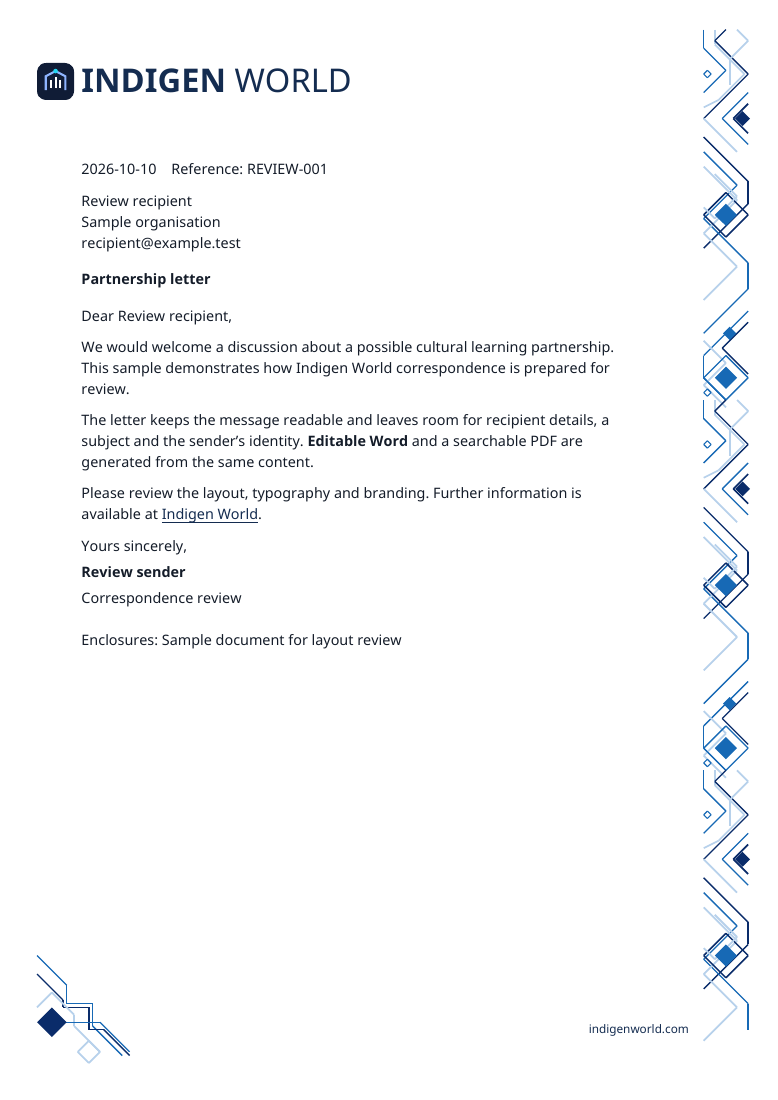
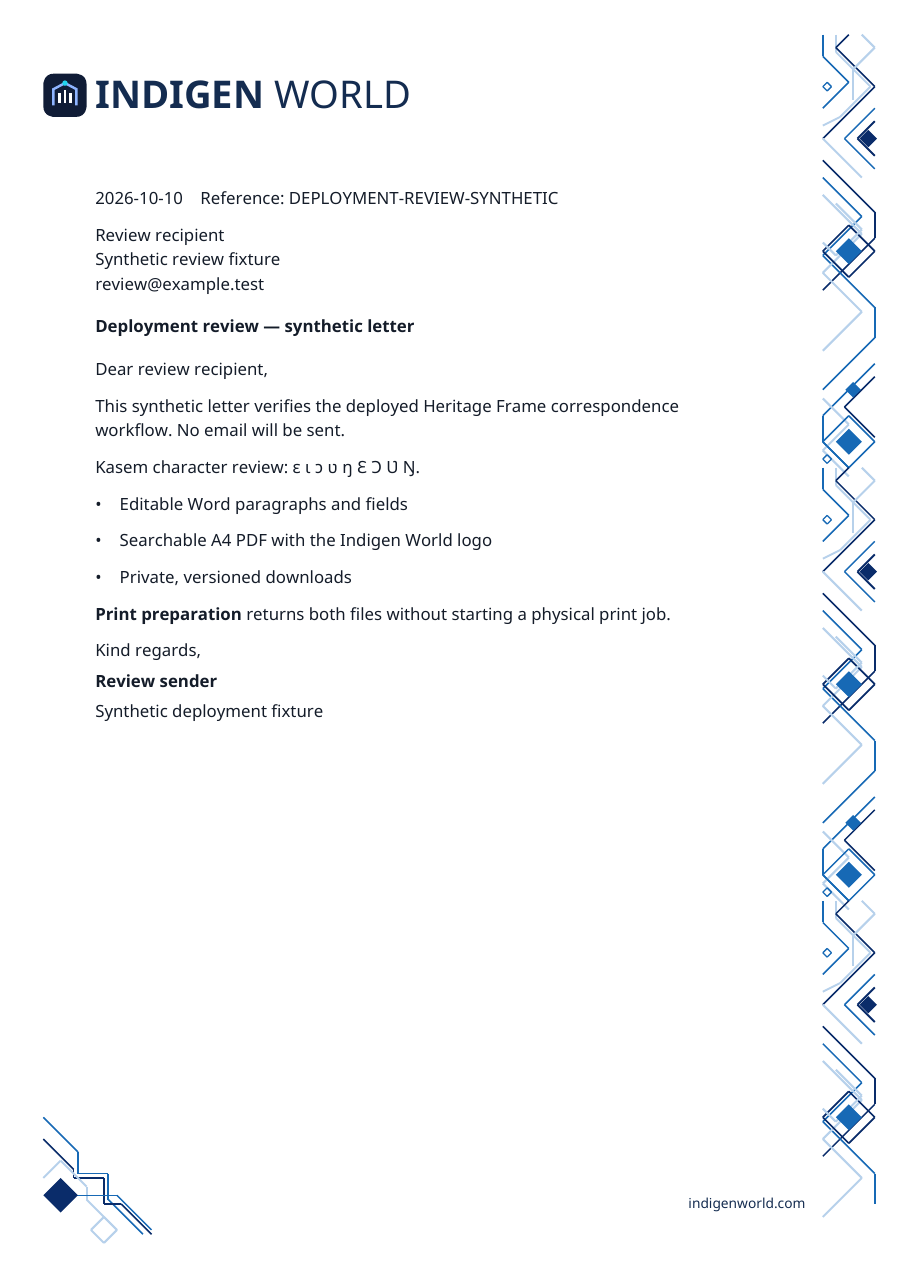
Record verified Heritage Frame production release

diff --git a/apps/updates-blog/posts/2026-10-10-heritage-frame-correspondence/post.html b/apps/updates-blog/posts/2026-10-10-heritage-frame-correspondence/post.html
@@ -1,18 +1,18 @@
 <article>
-  <p>Indigen World correspondence now has a reusable Heritage Frame design prepared in the repository. It brings the familiar Indigen World logo and wordmark to a clean white A4 page, with navy, cobalt and pale blue geometric artwork.</p>
-  <p><strong>Availability:</strong> this implementation is prepared for deployment and local review. A live release has not been confirmed.</p>
+  <p>Indigen World correspondence now uses the reusable Heritage Frame design. It brings the familiar Indigen World logo and wordmark to a clean white A4 page, with navy, cobalt and pale blue geometric artwork.</p>
+  <p><strong>Availability:</strong> deployed October 10, 2026 in Admin for authorised administrators. The private draft and cloud Word/PDF generation workflow has been verified with synthetic review data.</p>
   <figure><img src="images/heritage-frame-letter.png" alt="A sample Indigen World letter on white A4 paper with its logo, typographic wordmark, blue geometric right border and website footer"/><figcaption>Actual generated review sample with synthetic recipient and sender details. The letter text stays editable and searchable; the frame is vector artwork.</figcaption></figure>
   <h2>One letter, two useful files</h2>
   <p>Staff can prepare a letter once and download an editable Word document and a print-ready PDF. The same date, recipient details, subject, message and supplied sender identity are used in both. Longer letters can continue across pages, with the branding repeated and room kept clear for the text.</p>
   <p>The workflow supports paragraphs, lists, emphasis and links. Its bundled font preserves Kasem characters, including ɛ, ɩ, ɔ, ʋ and ŋ. Unsupported characters produce a clear generation error instead of silently disappearing.</p>
   <h2>A correspondence desk in Admin</h2>
-  <p>After deployment, administrators can open <strong>Messaging → Correspondence</strong>, enter their letter details and save a private draft. They can preview the letterhead, choose <strong>Download Word</strong> or <strong>Download PDF</strong>, and use <strong>Print PDF</strong> to prepare both files and open the PDF viewer. Preparing print files does not send email or start a physical print job.</p>
-  <figure><img src="images/correspondence-composer.png" alt="The Admin correspondence composer showing saved draft fields, a Heritage Frame preview and Word, PDF, print and email review controls"/><figcaption>Actual composer rendered with a clearly labelled local review fixture. These details are test data, and no message is delivered by this preview.</figcaption></figure>
+  <p>Administrators can open <strong>Messaging → Correspondence</strong>, enter their letter details and save a private draft. They can preview the letterhead, choose <strong>Download Word</strong> or <strong>Download PDF</strong>, and use <strong>Print PDF</strong> to prepare both files and open the PDF viewer. Preparing print files does not send email or start a physical print job.</p>
+  <figure><img src="images/correspondence-composer.png" alt="The deployed Admin correspondence composer with a saved synthetic draft and Heritage Frame preview showing the Indigen World logo"/><figcaption>Actual deployed composer with a clearly labelled synthetic review draft. No email was sent during this verification.</figcaption></figure>
   <h2>Readable email with the reviewed letter attached</h2>
   <p>Application email routes now prepare the corresponding Heritage Frame PDF before using the existing email provider. The email remains readable in its body. When staff supply a separate complete formal letter, they can write a concise email introduction and attach the full letter.</p>
   <p>The correspondence desk asks staff to review the recipient, email body and generated PDF before sending. Every generated document has a version and hash, so an attachment already sent is not silently replaced by later edits. Recipient-specific messages receive their own letters.</p>
   <h2>Private drafts and clear failures</h2>
   <p>Drafts and files stay private. Only the authorised owner receives temporary download links. If document or attachment preparation fails, the email stops before sending and the draft remains available to retry. If the provider’s acceptance is uncertain, the system stops an automatic resend so the team can check the recorded message identifier.</p>
   <p>No handwritten signature is added without an approved asset. Provider-managed Firebase authentication emails need a separate sender integration to support attachments. A separate staff correspondence assistant is not connected yet; an integration contract is prepared for the same authorised tools.</p>
-  <p>The local review includes one-page, multi-page and Kasem examples, offline attachment checks, retry checks and role/privacy tests. Deployment and Blogger publication remain separate release steps.</p>
+  <p>Verification includes one-page, multi-page and Kasem examples, offline attachment and retry checks, role/privacy tests, and live private draft and cloud document generation. No real-recipient test email or physical print job was performed. Blogger publication remains a separate step.</p>
 </article>

diff --git a/docs/operations/correspondence-deployment-2026-10-10.md b/docs/operations/correspondence-deployment-2026-10-10.md
@@ -1,0 +1,87 @@
+# Heritage Frame production release — October 10, 2026
+
+Deployed to `project-kassena-7e026`. Admin is available at
+[Messaging → Correspondence](https://admin.indigenworld.com/messaging/correspondence)
+and the Firebase Hosting domain `https://indigen-admin.web.app`.
+
+## Scope and source
+
+- Admin Hosting and Firestore/Storage rules: release commit
+  `4b0f8ed3ab7611f075cfbfd46fce13eb60a0a7eb`.
+- Final backend, including the cloud Word font correction: commit
+  `985d31258870eb67d96e66a67663349323d8a29a`.
+- An isolated clean checkout preserved unrelated Kasem audio release work.
+  Both code commits were pushed to `origin/main` before deployment. The frontend
+  code is unchanged by the backend correction; documentation commits do not
+  require another runtime release.
+- Firebase CLI 15.33.0 deployed only four Functions, private-data rules and
+  `hosting:indigen-admin`. Hosting's existing predeploy checks also ran the
+  website, dictionary and TribeStudio checks; those sites were not deployed.
+- A transient connection failure stopped correction attempts before source
+  upload. After connectivity recovered, the correction deploy completed.
+
+## Verified live backend
+
+All four Functions are ACTIVE, Node 22, 512 MiB, timeout 120 seconds,
+concurrency 1, in `us-central1`. Final Cloud Build:
+`7dedb75c-c2da-4297-b602-7c65d1a27879`.
+
+| Function | Final revision | Updated UTC |
+|---|---|---|
+| correspondence | correspondence-00002-peg | 19:01:23 |
+| publicForms | publicforms-00026-mup | 19:01:47 |
+| onNotificationCreated | onnotificationcreated-00027-tas | 19:01:51 |
+| onSupportEmailCreated | onsupportemailcreated-00004-hex | 19:01:50 |
+
+The existing seven SMTP/provider settings and secret bindings were retained.
+The existing runtime service account already had self-signing permission;
+Runtime service-account IAM roles and existing authentication/review permissions
+were preserved.
+Private cloud storage writes and download-link preparation passed through the
+admin-only callable. Raw draft and delivery collections remain denied to clients.
+
+## Validation
+
+- Correspondence build and 13 generator/delivery tests passed, including the
+  cloud filename regression, exact MIME attachment bytes and safe retries.
+- Existing six correspondence emulator tests, nine Admin route tests,
+  Admin build/typecheck, 22 contract fixtures and fixture browser verification
+  passed before release. The frontend remains byte-identical to that build.
+- Both Admin domains returned HTTP 200 and exactly matched the built HTML,
+  entry JavaScript and composer chunk. Existing nosniff, frame-denial and
+  noindex headers were present. Unauthenticated callable list returns
+  HTTP 401 / UNAUTHENTICATED.
+- A signed-in administrator saved `Deployment review — synthetic letter` and
+  prepared print files. Its generated versions remained separate and unsent.
+  The corrected Word and PDF were retrieved from private cloud storage.
+- Corrected cloud Word: 16 editable paragraphs, four embedded fonts, every
+  font relationship resolved, header/footer present and Kasem text retained.
+  Corrected PDF: one searchable A4 page, Kasem preserved, rendered and visually
+  inspected. Its hash matches the portal's saved version.
+
+Corrected synthetic document version:
[1 lines of base64/hex data omitted]
+
+PDF SHA-256:
[1 lines of base64/hex data omitted]
+
+Word SHA-256:
[1 lines of base64/hex data omitted]
+
+No real-recipient test email, physical print job or external Blogger publication
+was performed. SMTP acceptance/inbox delivery is not claimed. Native Word
+render-refresh and external assistant/authentication-email integration limits are
+recorded in [the verification record](../architecture/correspondence-verification.md).
+
+## Use and remaining connections
+
+Administrators can save a private draft, download Word/PDF, prepare a PDF for
+printing, or review and send an email with its immutable PDF attached. Existing
+application email routes enforce preparation through the shared SMTP boundary.
+The CLI also returns both formats without a printer or email operation.
+
+Firebase-managed security emails need an authorised custom sender integration
+for attachment coverage. A separate staff correspondence assistant is not
+connected; its tool contract is prepared. The support assistant's existing email
+outbox uses the updated worker. Chinedum's release article and images are ready
+in the repository; publishing and sharing remain separate actions.

diff --git a/docs/architecture/correspondence-verification.md b/docs/architecture/correspondence-verification.md
@@ -1,14 +1,16 @@
 # Correspondence verification — October 10, 2026
 
-Repository implementation only. No deployment, external publication, real
-recipient email or physical print job was performed.
+Functions, private-data rules and Admin Hosting were deployed October 10, 2026.
+No external publication, real-recipient test email or physical print job was
+performed. See [the deployment record](../operations/correspondence-deployment-2026-10-10.md).
 
 - Functions build and Admin build/typecheck passed.
-- `test:correspondence`: 12 passing tests. Covers editable DOCX packages,
+- `test:correspondence`: 13 passing tests. Covers editable DOCX packages,
   searchable A4 PDF, four embedded font faces, Kasem, lists, page breaks,
   approved-signature/glyph validation, exact offline MIME attachment bytes,
   recipient-specific bulk letters, preparation failure/retry, concurrent claims,
-  integrity failures and uncertain-delivery duplicate prevention.
+  integrity failures, uncertain-delivery duplicate prevention and retention of
+  already-valid cloud font part names with complete relationship validation.
 - `test:correspondence:integration`: 6 passing Firestore-emulator tests covering
   admin permissions, private draft persistence, optimistic revisions, owner
   isolation, direct-access denial, incomplete drafts and failed send preservation.
@@ -31,11 +33,37 @@ recipient email or physical print job was performed.
   content, four embedded font parts, headers, footers, SVG artwork and no editing
   protection. PDFs preserve the tested Kasem characters in extracted text.
 
-Synthetic samples are in `output/correspondence/` (ignored by Git). Regenerate
-with the documented CLI. Release-post assets are actual local sample/composer
-screenshots, not evidence of a live release.
+Synthetic samples are in `output/correspondence/` (ignored by Git), refreshed
+with generator v2. All three DOCX samples open with an independent document
+parser and contain editable paragraphs and four embedded fonts.
 
-Deployment checks still needed: production service-account signing/bucket
-permissions, SMTP configuration and deployment of Functions, rules and Admin.
+Production verification:
+- All four Functions are ACTIVE on Node 22, with 512 MiB, timeout 120 seconds
+  and concurrency 1. Original provider values and secret bindings were retained;
+  the service account already had signing permission. No runtime service-account
+  IAM change was needed.
+- Both Admin domains serve the exact built HTML, entry JavaScript and composer
+  chunk, with the existing security headers. Unauthenticated callable access
+  returns HTTP 401 / UNAUTHENTICATED.
+- A signed-in administrator saved a clearly labelled synthetic draft and used
+  Print PDF to generate both cloud files. The UI returned its ready notice and
+  recorded separate immutable versions marked Generated, not sent.
+- The initial live Word inspection exposed a cloud-library font packaging
+  defect. `docx` is now pinned to the tested release and generator v2 preserves
+  valid filenames, validates every font relationship and leaves history intact.
+  The corrected cloud DOCX opens with an independent parser: 16 editable
+  paragraphs, four embedded fonts, resolved references, header/footer and Kasem.
+- The corrected cloud PDF is one searchable A4 page, preserves the supplied
+  Kasem characters and matches the SHA-256 shown in the portal. It was downloaded
+  from private storage, rendered and visually inspected. Browser automation
+  cannot reliably capture the native PDF viewer; the standalone render is used
+  for visual evidence. Final native Microsoft Word layout refresh remains the
+  limitation described above.
+
+Release-post images are an actual deployed composer screenshot and a rendered
+cloud-generated PDF, both using synthetic identities. Blogger remains unpublished.
+
 Provider-managed Firebase security emails require a custom sender connection;
 the staff assistant descriptor still needs an authorised assistant integration.
+SMTP acceptance and inbox delivery were intentionally not tested against real
+recipients; the existing provider configuration and offline MIME tests were used.

diff --git a/apps/updates-blog/posts/2026-10-10-heritage-frame-correspondence/README.md b/apps/updates-blog/posts/2026-10-10-heritage-frame-correspondence/README.md
@@ -1,6 +1,6 @@
 # Heritage Frame letters and correspondence
 
-Status: **Implemented in the repository; deployment not confirmed. Blogger draft, not published. No real recipient emails sent.**
+Status: **Deployed October 10, 2026: Admin, four Functions and private-data rules. Live draft and Word/PDF print generation verified. Blogger draft, not published. No test emails sent.**
 
 | Field | Value |
 |---|---|
@@ -20,18 +20,18 @@ Status: **Implemented in the repository; deployment not confirmed. Blogger draft
 - Immutable private files, owner-checked temporary links, exact attached PDF hashes and durable delivery states. Preparation failures are retryable; uncertain SMTP outcomes are not automatically resent.
 - No approved handwritten signature exists; none is invented. A separate staff assistant is not connected. Firebase-managed security emails require a custom sender integration for attachments.
 - Functions/Admin builds, generator and delivery tests, role/private-draft emulator tests and desktop/mobile fixture browser checks are verified locally. See `docs/architecture/correspondence.md` and [the verification record](../../../../docs/architecture/correspondence-verification.md) for results and the final native Word visual-refresh limitation.
-- Implementation alone does not confirm production IAM signing access, a deployed endpoint, inbox delivery or physical-printer output. Deploy Functions, private-data rules and Admin together under the existing release safeguards.
+- Production release and authorised cloud Word/PDF generation are verified. The corrected Word opens with an independent parser and includes all four embedded fonts; the searchable A4 PDF matches the saved hash. Both Admin domains serve the release build. See [the deployment record](../../../../docs/operations/correspondence-deployment-2026-10-10.md). Inbox delivery and physical-printer output are not claimed.
 
 ## Images and credits
 
-- `images/heritage-frame-letter.png`: actual generated PDF review sample rendered locally; synthetic names and `example.test` email only. Design reconstructed as vector geometry from the reference supplied by the user. Indigen World logo reused from the repository's TribeStudio brand mark.
-- `images/correspondence-composer.png`: actual correspondence component screenshot using a clearly marked offline fixture, captured during local browser verification. No live records or email deliveries.
+- `images/heritage-frame-letter.png`: actual cloud-generated PDF from the deployed print workflow, rendered locally; clearly labelled synthetic names and `example.test` email only. Design reconstructed as vector geometry from the reference supplied by the user. Indigen World logo reused from the repository's TribeStudio brand mark.
+- `images/correspondence-composer.png`: actual deployed Admin composer with a saved synthetic deployment-review draft. No real correspondence or test email deliveries.
 - Letter fonts: Noto Sans, SIL Open Font License 1.1; licence and provenance in `services/functions/assets/fonts/`.
-- These are product/sample screenshots, not illustrations or evidence of a live rollout.
+- These are actual deployed product/sample screenshots. The deployment record describes their scope and the native Word visual-refresh limitation.
 
 ## Publishing handoff
 
-1. Confirm deployment and update the availability paragraph and release evidence before publication.
+1. Review the confirmed October 10 deployment evidence and the remaining integration limits before publication.
 2. Upload both PNGs from `images/` to Blogger. Replace each relative image `src` in `post.html` with its Blogger-hosted URL; preserve descriptive alt text and captions.
 3. Paste `post.html` into Blogger HTML view using the metadata above, then preview desktop and mobile.
 4. Chinedum publishes the article and replaces the clearly marked URL placeholder in `share.md`.

diff --git a/docs/architecture/correspondence.md b/docs/architecture/correspondence.md
@@ -1,6 +1,8 @@
 # Heritage Frame correspondence
 
-Implementation prepared October 10, 2026. Deployment is not confirmed.
+Deployed October 10, 2026 to the existing Firebase project and Admin site.
+See [the deployment record](../operations/correspondence-deployment-2026-10-10.md)
+and [verification results](correspondence-verification.md).
 
 The Word generator uses the tested `docx` 9.5.1 release, pinned for cloud/local
 consistency. Generator v2 retains valid embedded-font part names, checks their
@@ -164,12 +166,17 @@ coverage is required. Existing provider-native security flows remain intact.
 
 ## Deployment and verification
 
-This repository implementation has not been deployed or externally published.
-Deploy Functions (including `correspondence`, `publicForms`, `onNotificationCreated`
-and `onSupportEmailCreated`), Firestore/Storage rules and Admin Hosting together,
-using existing production release safeguards and SMTP secret bindings. Ensure
-the Functions service account can sign private download links, read/write its
-private bucket and use the existing SMTP relay. Do not send live test messages.
+Functions (`correspondence`, `publicForms`, `onNotificationCreated` and
+`onSupportEmailCreated`), Firestore/Storage rules and Admin Hosting were deployed
+under the production-main safeguards. The existing SMTP settings, secret
+bindings, service account and signing permission were preserved. Authenticated
+private draft saving and cloud generation of both formats passed. No live test
+email, physical print job or Blogger publication was performed.
+
+Future deployments must include these four Functions when the shared SMTP or
+generation boundary changes. Rebuild Functions and Admin, retain provider secret
+bindings, and verify authorised private downloads. Generators use 512 MiB,
+120-second execution budgets and concurrency 1. Never send live test messages.
 
 ```powershell
 npm run test:correspondence

diff --git a/apps/updates-blog/posts/README.md b/apps/updates-blog/posts/README.md
@@ -6,7 +6,7 @@ date identifies when the post was prepared; it does not prove the update is live
 
 ## Posts
 
-- [2026-10-10: Heritage Frame letters and correspondence](2026-10-10-heritage-frame-correspondence/README.md) — existing Indigen World logo, reusable editable Word/searchable PDF letters, private drafts, print preparation and reviewed SMTP attachments. Implemented and locally verified; deployment and Blogger publication pending. Includes actual generated sample and labelled local composer screenshots.
+- [2026-10-10: Heritage Frame letters and correspondence](2026-10-10-heritage-frame-correspondence/README.md) — existing Indigen World logo, reusable editable Word/searchable PDF letters, private drafts, print preparation and reviewed SMTP attachments. Admin, four Functions and private-data rules deployed October 10; authorised cloud Word/PDF generation verified; Blogger unpublished. Includes actual deployed composer and rendered cloud PDF with synthetic identities.
 
 - [2026-10-10: Check Kasem spellings without leaving your contribution](2026-10-10-kasem-dictionary-assistance/README.md) — dictionary underlines, approved suggestions and reviewed word submissions across responsive contributor fields. Deployed and verified on both TribeStudio domains, with four active backend functions; Blogger unpublished. Includes desktop and mobile product previews with test fixtures.
 

diff --git a/apps/updates-blog/posts/2026-10-10-heritage-frame-correspondence/share.md b/apps/updates-blog/posts/2026-10-10-heritage-frame-correspondence/share.md
@@ -1,13 +1,9 @@
 # Sharing copy for Chinedum
 
-## After the confirmed release
+## Confirmed October 10 release
 
-Indigen World letters can use Heritage Frame, with our logo, editable Word and PDF downloads, private drafts and a reviewed PDF attached to application emails. Prepare the letter once, then print or send it from the correspondence desk.
-
-Published article URL: **[REPLACE WITH THE PUBLISHED BLOGGER ARTICLE URL]**
-
-## Before deployment
-
-We have prepared the Heritage Frame correspondence workflow for review, including Word and PDF letters, private drafts and email attachments. Live rollout is still pending.
+Heritage Frame correspondence is now available in Indigen World Admin, with our logo, editable Word and PDF downloads, private drafts and a reviewed PDF attached to application emails. Open Messaging → Correspondence to prepare the letter once, then print or send it from the correspondence desk. Available to authorised administrators.
 
 Published article URL: **[REPLACE WITH THE PUBLISHED BLOGGER ARTICLE URL]**
+
+The article is not published yet. Firebase-managed security emails and a separate staff correspondence assistant need their additional sender/tool connections.
